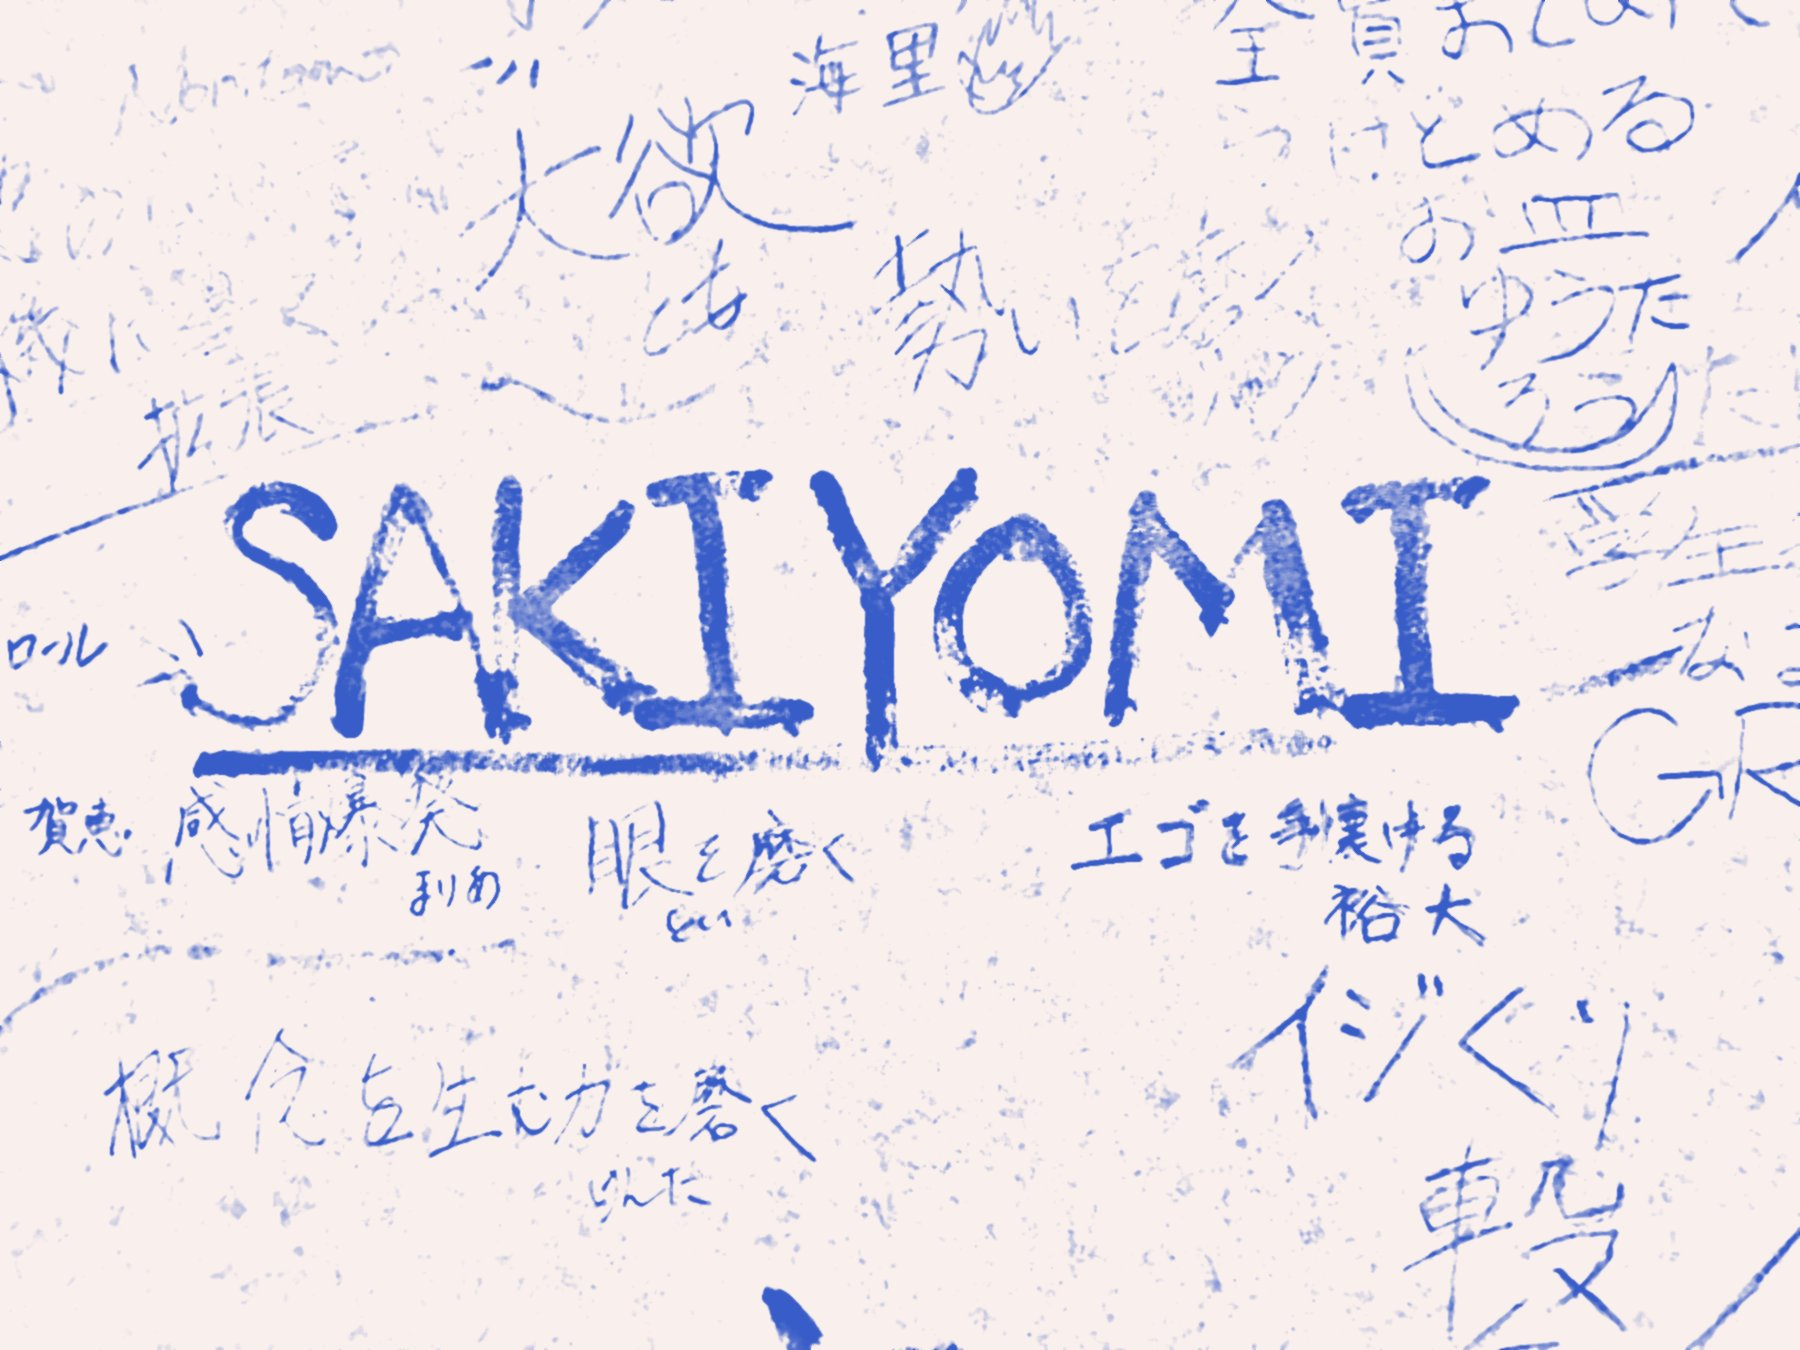
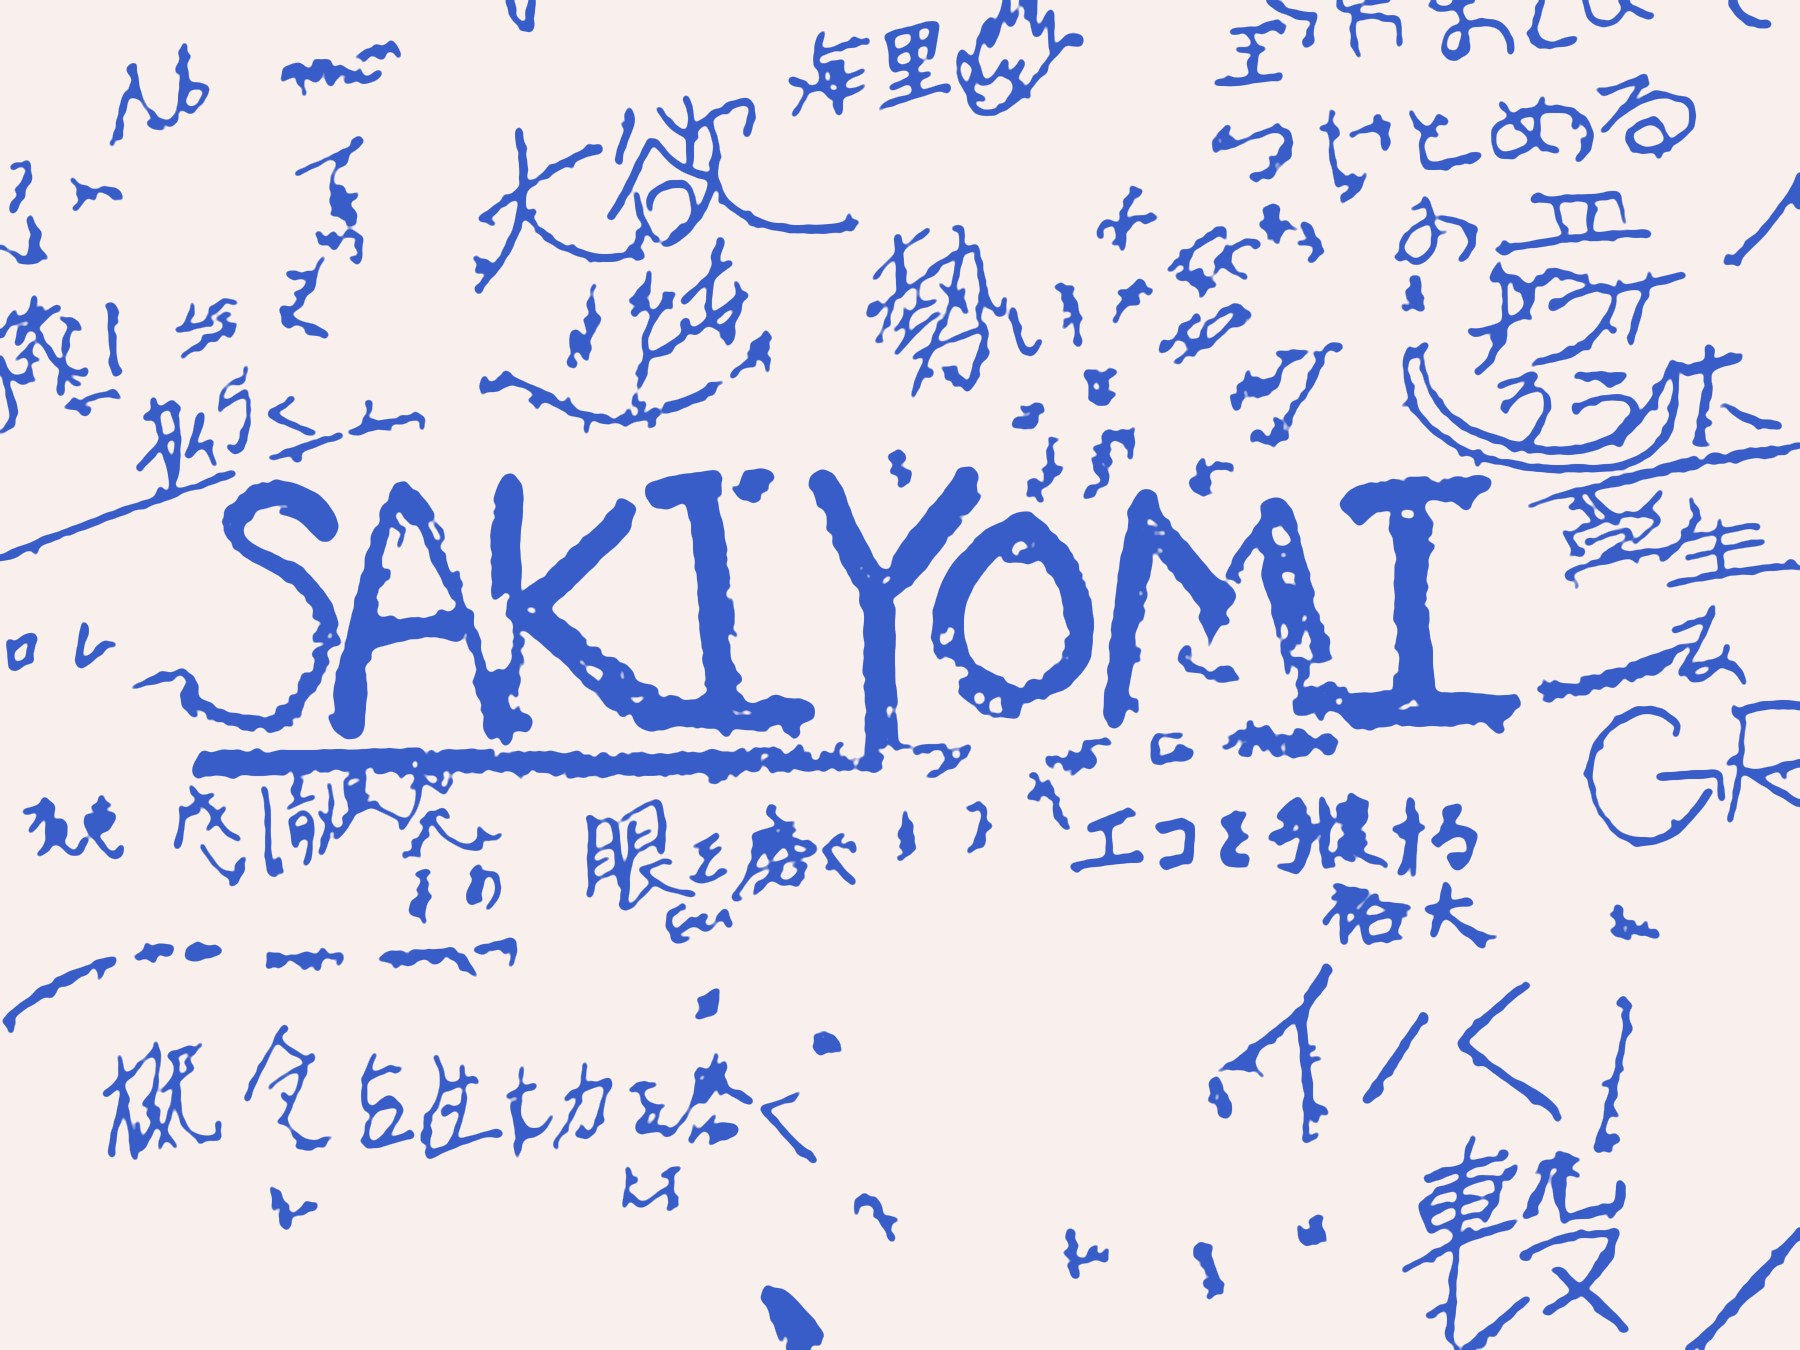
Cleaner illustrated wall photo
Claude-Session: https://claude.ai/code/session_015RnGiLFZouNiLXBrkgCp4k

diff --git a/radix10-y7k2q/index.html b/radix10-y7k2q/index.html
@@ -697,7 +697,7 @@ body.skui .kv-wall{max-width:680px;margin:40px auto 0;padding:0}body.skui .kv-wa
     <div class="kv-nums"><div><span>集まったメッセージ</span><b><em id="bigMsg">0</em><small>件</small></b></div><div><span>12/19 出席</span><b><em id="bigAtt">0</em><small>人</small></b></div></div>
     <div class="kv-btns"><button type="button" class="kv-p" id="rsvpMe">出席する</button><button type="button" class="kv-o" id="goMembers">メッセージを書く ↓</button></div>
   </div></section>
-  <figure class="kv-wall"><img id="wallImg" src="wall_blue.jpg" alt="オフィスの壁に書かれたSAKIYOMIの文字と、みんなの言葉" loading="eager"></figure>
+  <figure class="kv-wall"><img id="wallImg" src="wall_blue.jpg?v=2" alt="オフィスの壁に書かれたSAKIYOMIの文字と、みんなの言葉" loading="eager"></figure>
   <div class="kv-lab sk-mh">— 話したい人を選ぶ —</div>
   <div class="bar">
     <div class="seg" role="tablist" id="seg"><button data-r="all" class="on">すべて</button><button data-r="partner">元パートナー</button><button data-r="innovator">元イノベーター</button><button data-r="cur">現メンバー</button></div>
